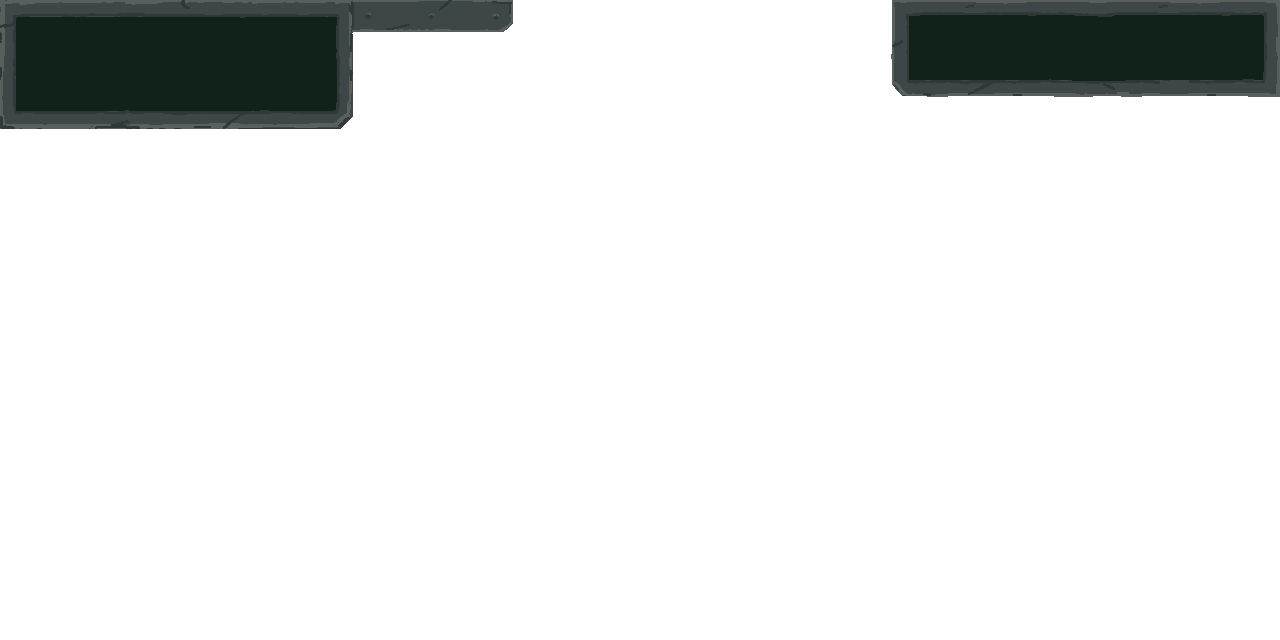
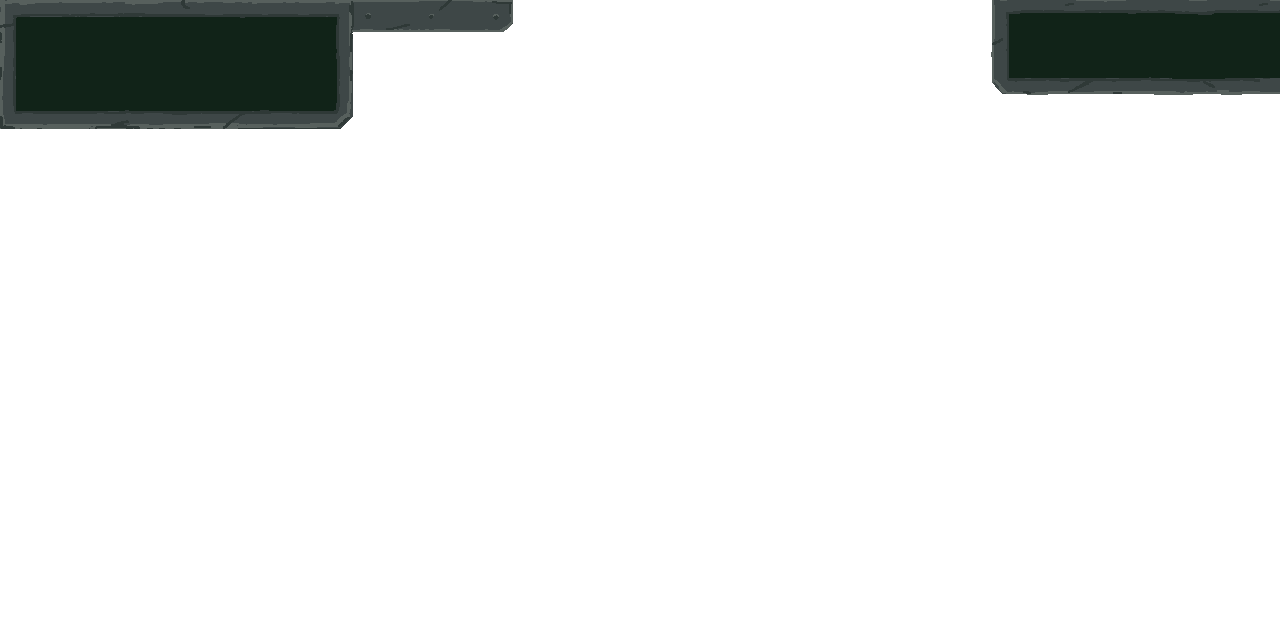
Added ammo counter

Changed region(s): [[0.6875, 0.0, 1.0, 0.1562]]

diff --git a/src/app/scenes/Scene2.js b/src/app/scenes/Scene2.js
@@ -8,13 +8,16 @@ import TankTrap from '../classes/TankTrap';
 import Player from '../classes/Player';
 import Enemy from '../classes/Enemy';
 
+
 export default class Scene2 extends Phaser.Scene {
 
     constructor() {
         super('playGame');
 
         this.state = {
-            gameOver: false
+            gameOver: false,
+            ammoCount: 6,
+            score: 0
         }
     }
 
@@ -32,7 +35,7 @@ export default class Scene2 extends Phaser.Scene {
         this.foreground = this.add.image(this.cameras.main.width / 2, config.height - 205, 'foreground');
 
         // Add GUI
-        this.gui = new GUI(this, this.cameras.main.width / 2, config.height - 320, 5);
+        this.gui = new GUI(this, this.cameras.main.width / 2, config.height - 320, this.state.ammoCount);
 
 
         // Add tank traps
@@ -49,7 +52,7 @@ export default class Scene2 extends Phaser.Scene {
 
         // Make enemies using the makeEnemies method based on difficulty
         this.enemies = this.makeEnemies(this.difficulty);
-     
+
 
         // Make variable to listen for cursor keys
         this.cursorKeys = this.input.keyboard.createCursorKeys();
@@ -81,6 +84,10 @@ export default class Scene2 extends Phaser.Scene {
 
                     // If bullet hits enemy run enemy hit method
                     enemy.enemyHit();
+
+                    // Add 10 to score
+                    this.state.score += 10;
+                    console.log(this.state.score)
 
                     // Destroy the bullet  (Note this will destroy all bullets, works for now but will need to be changed)
                     this.activeBullets.forEach(bullet => {
@@ -162,11 +169,21 @@ export default class Scene2 extends Phaser.Scene {
         // Shoot gun when spacebar is pressed
         if (Phaser.Input.Keyboard.JustDown(this.spacebar)) {
             this.player.playerShoot();
+            /**
+             * Set the state to the player ammo count, we will need 
+             * to do this to update the ammo counter in the GUI
+             */
+            this.state.ammoCount = this.player.state.playerAmmoCount;
         }
 
         // Reload gun when "r" key is pressed 
         if (Phaser.Input.Keyboard.JustDown(this.rKey)) {
             this.player.playerReload();
+            /**
+            * Set the state to the player ammo count, we will need 
+            * to do this to update the ammo counter in the GUI
+            */
+            this.state.ammoCount = this.player.state.playerAmmoCount;
         }
 
 
@@ -194,11 +211,15 @@ export default class Scene2 extends Phaser.Scene {
         });
 
 
+        // This will end game is state set to true
         if (this.state.gameOver) {
             this.gameOver();
         }
 
-
+        /**
+         * Run the update function in the GUI and pass the this.state.ammoCount as an argument 
+         */
+        this.gui.update(this.state.ammoCount);
     }
 
 

diff --git a/src/app/classes/GUI.js b/src/app/classes/GUI.js
@@ -1,24 +1,31 @@
 import Phaser from 'phaser';
 
+import AmmoCounter from '../classes/AmmoCounter';
+
 export default class GUI extends Phaser.GameObjects.Sprite {
-    constructor(scene, x, y, amoCount) {
+    constructor(scene, x, y, ammoCount) {
         super(
             scene,
             x,
             y,
-            amoCount,
+            ammoCount,
             'GUI',
             'commissar',
         );
 
         this.scene = scene;
+        this.ammoCount = ammoCount;
 
         // Add background image
         this.scene.add.image(x, y, 'GUI');
 
 
+        // Add ammoCount
+        this.ammoCounter = new AmmoCounter(this.scene, ammoCount);
+        this.ammoCounter.updateAmmoCount();
 
         this.addCommissar();
+        this.currentAmmo();
     }
 
 
@@ -35,7 +42,7 @@ export default class GUI extends Phaser.GameObjects.Sprite {
         this.commissarImage.alpha = 0;
         this.commissarHeading.alpha = 0;
         this.commissarText1.alpha = 0;
-        this.commissarText1.alpha = 0;
+        this.commissarText2.alpha = 0;
 
 
         // Add fadeoutIn
@@ -49,7 +56,7 @@ export default class GUI extends Phaser.GameObjects.Sprite {
         });
 
         timeline.add({
-            targets:  this.commissarHeading,
+            targets: this.commissarHeading,
             alpha: 1,
             ease: 'Power1',
             duration: 1000
@@ -81,7 +88,19 @@ export default class GUI extends Phaser.GameObjects.Sprite {
 
     }
 
-    currentScore(){
-        
+
+    currentAmmo() {
+        this.currentAmoText = this.scene.add.text(1030, 30, `Ammunition:`, { fill: '#0f0' });
+    }
+
+
+    currentScore() {
+        this.currentScoreText = this.scene.add.text(920, 30, 'Current score:', { fill: '#0f0' });
+    }
+
+
+    update(ammoCount) {
+        console.log(ammoCount)
+        this.ammoCounter.updateAmmoCount(ammoCount);
     }
 }

diff --git a/src/app/classes/AmmoCounter.js b/src/app/classes/AmmoCounter.js
@@ -1,0 +1,60 @@
+import Phaser from 'phaser';
+
+export default class AmmoCounter extends Phaser.GameObjects.Sprite {
+    constructor(scene) {
+
+
+        super(scene, 'ammoCounter');
+
+
+
+        // Add game object to the scene
+        scene.add.existing(this)
+
+        // Enable sprite sheet to have physics
+        scene.physics.world.enableBody(this);
+
+        /**
+         * - Add sprite texture
+         * - Set sprite to first frame
+         * - set x and y
+         * - change hitbox size
+         */
+        this.setTexture('ammoCounter')
+        this.setFrame(0)
+        this.x = 1200;
+        this.y = 40;
+    }
+
+    updateAmmoCount(ammoCount) {
+     
+        //console.log(ammoCount)
+
+        switch (true) {
+            case (ammoCount === 6):
+                this.setFrame(0)
+                break;
+            case (ammoCount === 5):
+                this.setFrame(1)
+                break;
+            case (ammoCount === 4):
+                this.setFrame(2)
+                break;
+            case (ammoCount === 3):
+                this.setFrame(3)
+                break;
+            case (ammoCount === 2):
+                this.setFrame(4)
+                break;
+            case (ammoCount === 1):
+                this.setFrame(5)
+                break;
+            case (ammoCount === 0):
+                this.setFrame(6)
+                break;
+            default:
+                this.setFrame(0)
+        }
+    }
+
+}

diff --git a/src/app/classes/Player.js b/src/app/classes/Player.js
@@ -28,7 +28,7 @@ export default class Player extends Character {
         this.state = {
             isPlayerShooting: false,
             isPlayerReloading: false,
-            playerAmmunitionCount: 5,
+            playerAmmoCount: 6,
         }
 
         // Add game object to the scene
@@ -91,7 +91,7 @@ export default class Player extends Character {
         }
 
         // Check player amo count, if 0 reload and break out of this method 
-        if (this.state.playerAmmunitionCount === 0) {
+        if (this.state.playerAmmoCount === 0) {
             this.playerReload();
             return;
         }
@@ -101,7 +101,7 @@ export default class Player extends Character {
         this.state.isPlayerShooting = true;
 
         // Subtract one from the amo count
-        this.state.playerAmmunitionCount--;
+        this.state.playerAmmoCount--;
 
 
         /**
@@ -135,8 +135,8 @@ export default class Player extends Character {
         // Set isPlayerReloading to true
         this.state.isPlayerReloading = true;
 
-        // Reset playerAmmunitionCount to 5
-        this.state.playerAmmunitionCount = 5;
+        // Reset playerAmmoCount to 6
+        this.state.playerAmmoCount = 6;
 
 
         // Set timeout so the player can reload again after 1 second

diff --git a/src/app/scenes/Scene1.js b/src/app/scenes/Scene1.js
@@ -18,6 +18,7 @@ import enemyRunning from '../../assets/spritesheets/cultist-animated-running-spr
 import enemyAttacking from '../../assets/spritesheets/cultist-animated-attacking-sprite.png';
 import enemyShotChest from '../../assets/spritesheets/cultist-animated-shot-in-chest-sprite.png';
 import bullet from '../../assets/spritesheets/bullet-sprite.png';
+import ammoCounter from '../../assets/spritesheets/ammo-counter-sprite-sheet.png';
 
 
 export default class Scene1 extends Phaser.Scene {
@@ -107,6 +108,12 @@ export default class Scene1 extends Phaser.Scene {
         // Spritesheet for bullet
         this.load.spritesheet('bullet', bullet, {
             frameWidth: 32,
+            frameHeight: 32,
+        });
+
+          // Spritesheet for ammo counter
+          this.load.spritesheet('ammoCounter', ammoCounter, {
+            frameWidth: 96,
             frameHeight: 32,
         });
 

diff --git a/src/app/classes/TankTrap.js b/src/app/classes/TankTrap.js
@@ -39,27 +39,7 @@ export default class TankTrap extends Phaser.GameObjects.Sprite {
         this.y = y;
 
 
-        // Change the zIndex based on the y axis 
-        // switch (true) {
-        //     case (this.y < 300):
-        //         this.depth = -1;
-        //         break;
-        //     case (this.y < 350):
-        //         this.depth = 1;
-        //         break;
-        //     case (this.y < 400):
-        //         this.depth = 2;
-        //         break;
-        //     case (this.y < 450):
-        //         this.depth = 3;
-        //         break;
-        //     case (this.y < 500):
-        //         this.depth = 4;
-        //         break;
-        //     case (this.y < 550):
-        //         this.depth = 5;
-        //         break;
-        // }
+      
 
         const startingPosition = getRandomNumber(1, 4);
         switch (true) {
